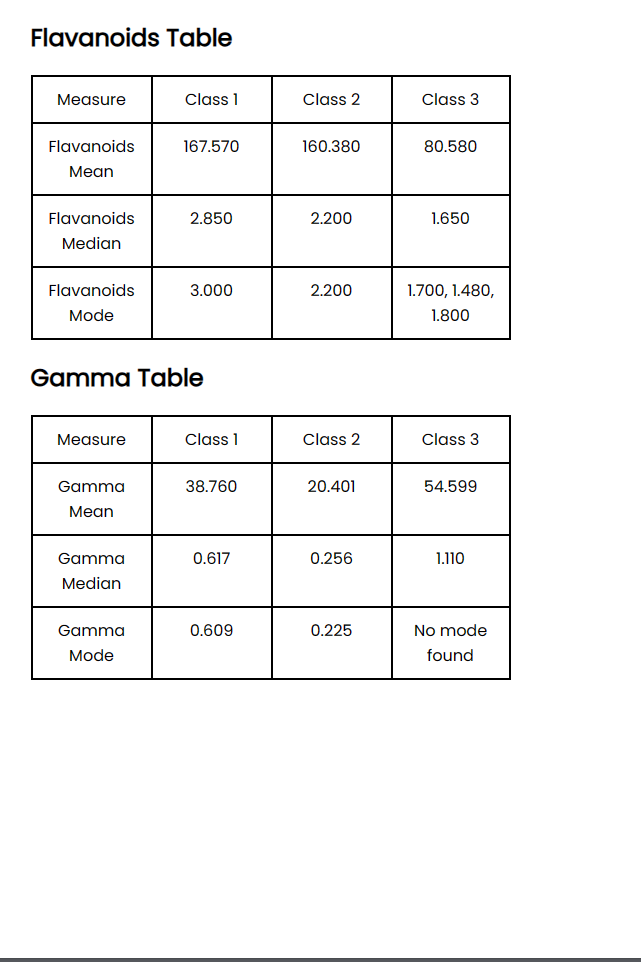
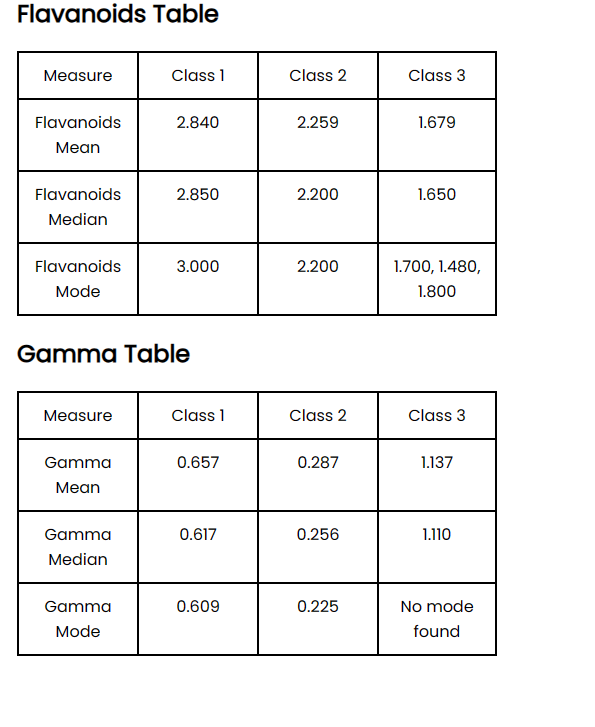
fixed mean

diff --git a/src/utils/helpers.js b/src/utils/helpers.js
@@ -13,10 +13,10 @@ export const calculateMean = (array, key) => {
 
     // valHolder = holds value for each function call
     // currentVal = current value in array
-    return dataArray.reduce((valHolder, currentVal) => {
+    return ((dataArray.reduce((valHolder, currentVal) => {
         return valHolder + currentVal;
         // 0 is passed here as initial value for valHolder
-    }, 0).toFixed(3);
+    }, 0)) / dataArray.length).toFixed(3);
 
 }
 
@@ -86,5 +86,5 @@ export const calculateMode = (array, key) => {
 
 // function to calculate and return gamma by using parameters needed
 export const calculateGamma = (ash, hue, magnesium) => {
-    return parseFloat(((ash * hue) / magnesium).toFixed(3))
+    return ((ash * hue) / magnesium).toFixed(3)
 }
